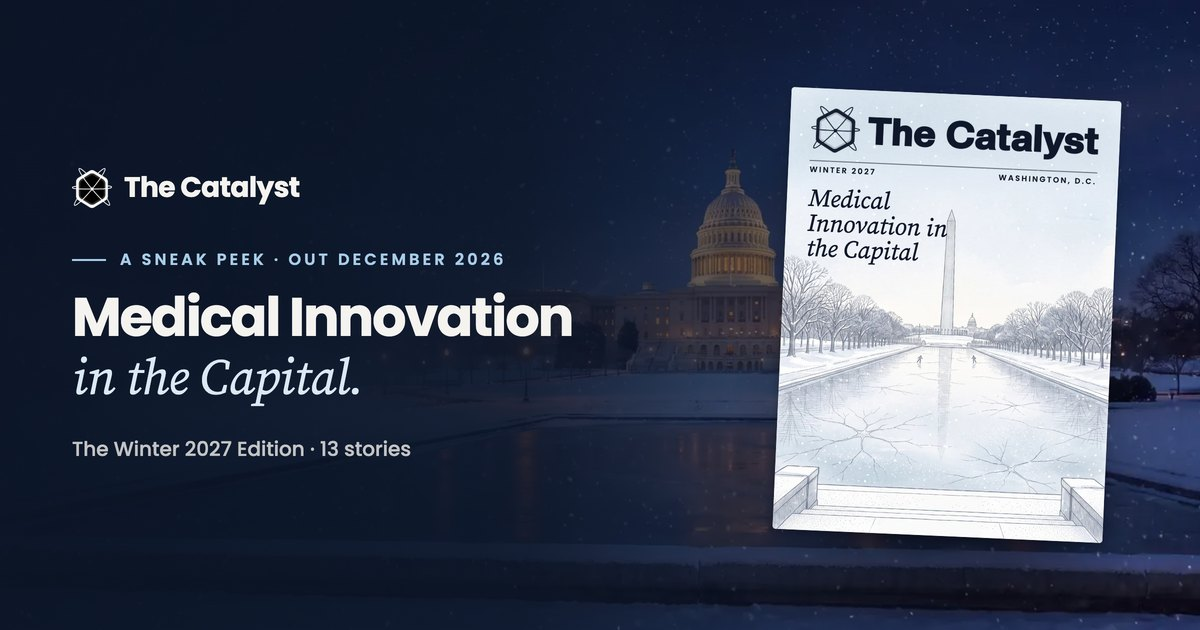
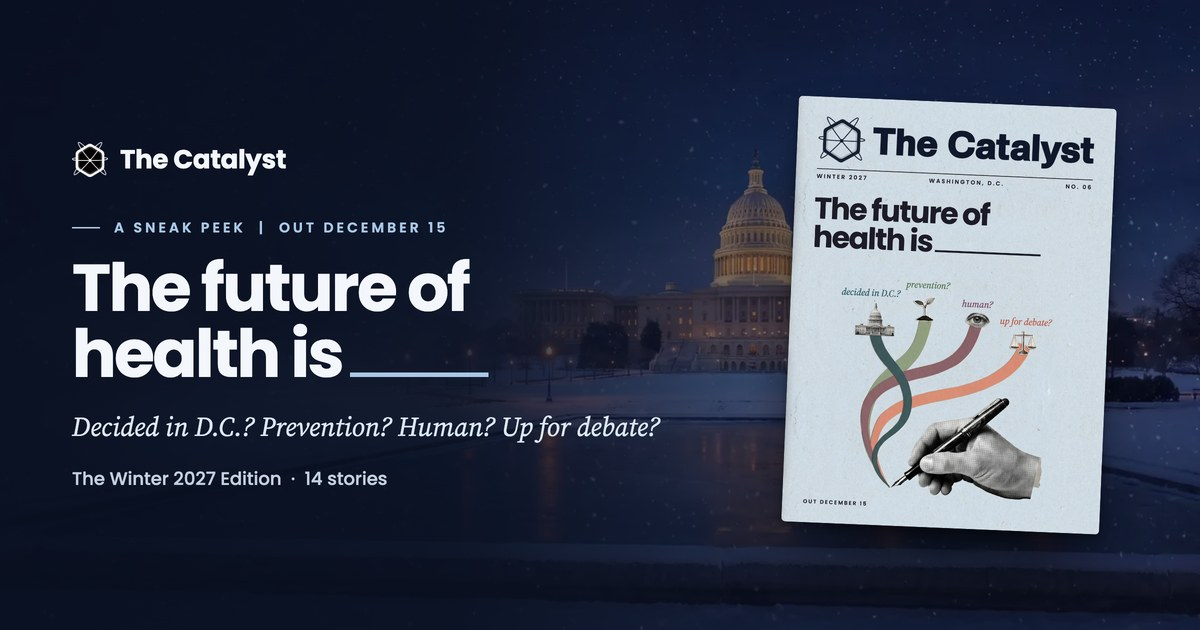
Covers: no white at the spine corners, and a new link preview for Winter 2027. The page block behind every cover (the pages seen past the fore-edge and the foot) sat flush at the cover's top-left, and its square white corner showed under the cover's rounded top-left and bottom-left corners; it now s

diff --git a/edition-winter.html b/edition-winter.html
@@ -22,17 +22,17 @@
     <meta property="og:site_name" content="The Catalyst Magazine">
     <meta property="og:title" content="The Winter 2027 Edition: The Future of Health Is ______">
     <meta property="og:description" content="A sneak peek at the Winter 2027 edition, out December 15: stories from the labs, clinics and classrooms building the next generation of medicine.">
-    <meta property="og:image" content="https://www.catalyst-magazine.com/edition-art/winter/og.jpg?v=2">
+    <meta property="og:image" content="https://www.catalyst-magazine.com/edition-art/winter/og.jpg?v=3">
     <meta property="og:image:type" content="image/jpeg">
     <meta property="og:image:width" content="1200">
     <meta property="og:image:height" content="630">
-    <meta property="og:image:alt" content="The Winter 2027 edition of The Catalyst, The Future of Health Is ______: the edition cover over the U.S. Capitol on a snowy night.">
+    <meta property="og:image:alt" content="The Winter 2027 edition of The Catalyst: The future of health is ______. Decided in D.C.? Prevention? Human? Up for debate? The edition cover beside the U.S. Capitol on a snowy night.">
     <meta property="og:url" content="https://www.catalyst-magazine.com/edition-winter">
     <meta name="twitter:card" content="summary_large_image">
     <meta name="twitter:title" content="The Winter 2027 Edition: The Future of Health Is ______">
     <meta name="twitter:description" content="A sneak peek at the Winter 2027 edition of The Catalyst, out December 15.">
-    <meta name="twitter:image" content="https://www.catalyst-magazine.com/edition-art/winter/og.jpg?v=2">
-    <meta name="twitter:image:alt" content="The Winter 2027 edition of The Catalyst, The Future of Health Is ______: the edition cover over the U.S. Capitol on a snowy night.">
+    <meta name="twitter:image" content="https://www.catalyst-magazine.com/edition-art/winter/og.jpg?v=3">
+    <meta name="twitter:image:alt" content="The Winter 2027 edition of The Catalyst: The future of health is ______. Decided in D.C.? Prevention? Human? Up for debate? The edition cover beside the U.S. Capitol on a snowy night.">
 
     <link rel="icon" type="image/png" sizes="32x32" href="/favicon-32x32.png">
     <link rel="icon" type="image/png" sizes="16x16" href="/favicon-16x16.png">
@@ -53,7 +53,7 @@
           imagesrcset="/edition-art/winter/hero-tall-800.webp?v=1 800w, /edition-art/winter/hero-tall-1200.webp?v=1 1200w" imagesizes="100vw">
 
     <link rel="stylesheet" href="/css/styles.css?v=20260925-review">
-    <link rel="stylesheet" href="/css/magazine.css?v=8">
+    <link rel="stylesheet" href="/css/magazine.css?v=9">
     <link rel="stylesheet" href="/css/edition.css?v=16">
     <style>
       /* Winter: a night hero over a light frost page */

diff --git a/css/magazine.css b/css/magazine.css
@@ -51,7 +51,10 @@
   --fore: max(1.2px, 1.15cqw);           /* depth of the page block at the fore-edge (a slim glossy issue) */
   --foot: max(1px, .75cqw);              /* at the fore-edge corner; nothing at the spine */
   content: ""; position: absolute; z-index: -1; pointer-events: none;
-  left: 0; top: 0; right: calc(-1 * var(--fore)); bottom: calc(-1 * var(--foot));
+  /* inset at the spine and the head: the block only needs to show past the
+     fore-edge and the foot. Flush at 0/0 its square white corner peeked out
+     from under the cover's rounded top-left and bottom-left corners. */
+  left: max(2px, .9cqw); top: max(2px, .9cqw); right: calc(-1 * var(--fore)); bottom: calc(-1 * var(--foot));
   border-radius: 0 1.5px 2px 0;
   /* cover's top right corner, down the fore-edge, back along the foot to the spine */
   clip-path: polygon(0 0, calc(100% - var(--fore)) 0, 100% calc(var(--foot) * .85), 100% 100%, 0 calc(100% - var(--foot)));

diff --git a/article.html b/article.html
@@ -66,7 +66,7 @@
     <link href="https://fonts.googleapis.com/css2?family=Source+Serif+Pro:ital,wght@0,400;0,600;0,700;1,400&family=Inter:wght@400;500;600;700;800&display=swap" rel="stylesheet" media="print" onload="this.media='all'"><noscript><link href="https://fonts.googleapis.com/css2?family=Source+Serif+Pro:ital,wght@0,400;0,600;0,700;1,400&family=Inter:wght@400;500;600;700;800&display=swap" rel="stylesheet"></noscript>
     <link rel="preload" href="/css/styles.css?v=20260925-review" as="style">
     <link rel="stylesheet" href="/css/styles.css?v=20260925-review">
-    <link rel="stylesheet" href="/css/magazine.css?v=8">
+    <link rel="stylesheet" href="/css/magazine.css?v=9">
     <link rel="stylesheet" href="/css/article-premium.css?v=20261014-author">
     <link rel="stylesheet" href="/css/article-layouts.css?v=5">
     <!-- Book-review-only styles. Scoped to body[data-page="article"].is-book-review

diff --git a/edition-spring-2025.html b/edition-spring-2025.html
@@ -41,7 +41,7 @@
     <link rel="preload" as="image" href="/edition-art/spring-2025/hero-1600.webp?v=1" media="(min-width: 900px)" imagesrcset="/edition-art/spring-2025/hero-1600.webp?v=1 1600w, /edition-art/spring-2025/hero-2600.webp?v=1 2600w" imagesizes="100vw">
     <link rel="preload" as="image" href="/edition-art/spring-2025/hero-tall-800.webp?v=1" media="(max-width: 899px)" imagesrcset="/edition-art/spring-2025/hero-tall-800.webp?v=1 800w, /edition-art/spring-2025/hero-tall-1200.webp?v=1 1200w" imagesizes="100vw">
     <link rel="stylesheet" href="/css/styles.css?v=20260925-review">
-    <link rel="stylesheet" href="/css/magazine.css?v=8">
+    <link rel="stylesheet" href="/css/magazine.css?v=9">
     <link rel="stylesheet" href="/css/edition.css?v=16">
     <style>
       body.wx-spring {

diff --git a/edition-spring-2026.html b/edition-spring-2026.html
@@ -41,7 +41,7 @@
     <link rel="preload" as="image" href="/edition-art/spring-2026/hero-1600.webp?v=1" media="(min-width: 900px)" imagesrcset="/edition-art/spring-2026/hero-1600.webp?v=1 1600w, /edition-art/spring-2026/hero-2600.webp?v=1 2600w" imagesizes="100vw">
     <link rel="preload" as="image" href="/edition-art/spring-2026/hero-tall-800.webp?v=1" media="(max-width: 899px)" imagesrcset="/edition-art/spring-2026/hero-tall-800.webp?v=1 800w, /edition-art/spring-2026/hero-tall-1200.webp?v=1 1200w" imagesizes="100vw">
     <link rel="stylesheet" href="/css/styles.css?v=20260925-review">
-    <link rel="stylesheet" href="/css/magazine.css?v=8">
+    <link rel="stylesheet" href="/css/magazine.css?v=9">
     <link rel="stylesheet" href="/css/edition.css?v=16">
     <style>
       body.wx-spring {

diff --git a/edition-winter-2025.html b/edition-winter-2025.html
@@ -41,7 +41,7 @@
     <link rel="preload" as="image" href="/edition-art/winter-2025/hero-1600.webp?v=1" media="(min-width: 900px)" imagesrcset="/edition-art/winter-2025/hero-1600.webp?v=1 1600w, /edition-art/winter-2025/hero-2600.webp?v=1 2600w" imagesizes="100vw">
     <link rel="preload" as="image" href="/edition-art/winter-2025/hero-tall-800.webp?v=1" media="(max-width: 899px)" imagesrcset="/edition-art/winter-2025/hero-tall-800.webp?v=1 800w, /edition-art/winter-2025/hero-tall-1200.webp?v=1 1200w" imagesizes="100vw">
     <link rel="stylesheet" href="/css/styles.css?v=20260925-review">
-    <link rel="stylesheet" href="/css/magazine.css?v=8">
+    <link rel="stylesheet" href="/css/magazine.css?v=9">
     <link rel="stylesheet" href="/css/edition.css?v=16">
     <style>
       body.wx-winter {

diff --git a/edition-fall-2026.html b/edition-fall-2026.html
@@ -41,7 +41,7 @@
     <link rel="preload" as="image" href="/edition-art/fall-2026/hero-1600.webp?v=1" media="(min-width: 900px)" imagesrcset="/edition-art/fall-2026/hero-1600.webp?v=1 1600w, /edition-art/fall-2026/hero-2600.webp?v=1 2600w" imagesizes="100vw">
     <link rel="preload" as="image" href="/edition-art/fall-2026/hero-tall-800.webp?v=1" media="(max-width: 899px)" imagesrcset="/edition-art/fall-2026/hero-tall-800.webp?v=1 800w, /edition-art/fall-2026/hero-tall-1200.webp?v=1 1200w" imagesizes="100vw">
     <link rel="stylesheet" href="/css/styles.css?v=20260925-review">
-    <link rel="stylesheet" href="/css/magazine.css?v=8">
+    <link rel="stylesheet" href="/css/magazine.css?v=9">
     <link rel="stylesheet" href="/css/edition.css?v=16">
     <style>
       body.wx-autumn {

diff --git a/edition-fall-2025.html b/edition-fall-2025.html
@@ -41,7 +41,7 @@
     <link rel="preload" as="image" href="/edition-art/fall-2025/hero-1600.webp?v=1" media="(min-width: 900px)" imagesrcset="/edition-art/fall-2025/hero-1600.webp?v=1 1600w, /edition-art/fall-2025/hero-2600.webp?v=1 2600w" imagesizes="100vw">
     <link rel="preload" as="image" href="/edition-art/fall-2025/hero-tall-800.webp?v=1" media="(max-width: 899px)" imagesrcset="/edition-art/fall-2025/hero-tall-800.webp?v=1 800w, /edition-art/fall-2025/hero-tall-1200.webp?v=1 1200w" imagesizes="100vw">
     <link rel="stylesheet" href="/css/styles.css?v=20260925-review">
-    <link rel="stylesheet" href="/css/magazine.css?v=8">
+    <link rel="stylesheet" href="/css/magazine.css?v=9">
     <link rel="stylesheet" href="/css/edition.css?v=16">
     <style>
       body.wx-fall {

diff --git a/articles.html b/articles.html
@@ -42,7 +42,7 @@
     <link href="https://fonts.googleapis.com/css2?family=Poppins:wght@400;500;600;700&family=Source+Serif+Pro:ital,wght@0,400;0,600;1,400;1,600&display=swap" rel="stylesheet">
     <link rel="preload" as="image" href="/beta/articles/capitol-1280.webp?v=1" imagesrcset="/beta/articles/capitol-800.webp?v=1 800w, /beta/articles/capitol-1280.webp?v=1 1280w" imagesizes="(max-width: 899px) 94vw, 50vw">
     <link rel="stylesheet" href="/css/styles.css?v=20260925-review">
-    <link rel="stylesheet" href="/css/magazine.css?v=8">
+    <link rel="stylesheet" href="/css/magazine.css?v=9">
     <script type="application/ld+json">
     {
       "@context": "https://schema.org",

diff --git a/editions.html b/editions.html
@@ -38,7 +38,7 @@
     <link rel="preconnect" href="https://fonts.gstatic.com" crossorigin>
     <link href="https://fonts.googleapis.com/css2?family=Poppins:wght@400;500;600;700&family=Source+Serif+Pro:ital,wght@0,400;0,600;1,400;1,600&display=swap" rel="stylesheet">
     <link rel="stylesheet" href="/css/styles.css?v=20260925-review">
-    <link rel="stylesheet" href="/css/magazine.css?v=8">
+    <link rel="stylesheet" href="/css/magazine.css?v=9">
     <style>
       /* ============================================================
          THE EDITIONS — the archive of every edition. Same paper, ink

diff --git a/edition-spring.html b/edition-spring.html
@@ -51,7 +51,7 @@
           imagesrcset="/edition-art/spring/hero-tall-800.webp?v=1 800w, /edition-art/spring/hero-tall-1200.webp?v=1 1200w" imagesizes="100vw">
 
     <link rel="stylesheet" href="/css/styles.css?v=20260925-review">
-    <link rel="stylesheet" href="/css/magazine.css?v=8">
+    <link rel="stylesheet" href="/css/magazine.css?v=9">
     <link rel="stylesheet" href="/css/edition.css?v=16">
     <style>
       /* Spring: a morning edition — blossom paper, plum ink, rose accent */

diff --git a/index.html b/index.html
@@ -93,7 +93,7 @@
     <!-- Shared site stylesheet: the real header, footer and newsletter modal -->
     <link rel="stylesheet" href="/css/styles.css?v=20260925-review">
     <!-- page edges behind the magazine covers -->
-    <link rel="stylesheet" href="/css/magazine.css?v=8">
+    <link rel="stylesheet" href="/css/magazine.css?v=9">
 
     <style>
       /* ============================================================
